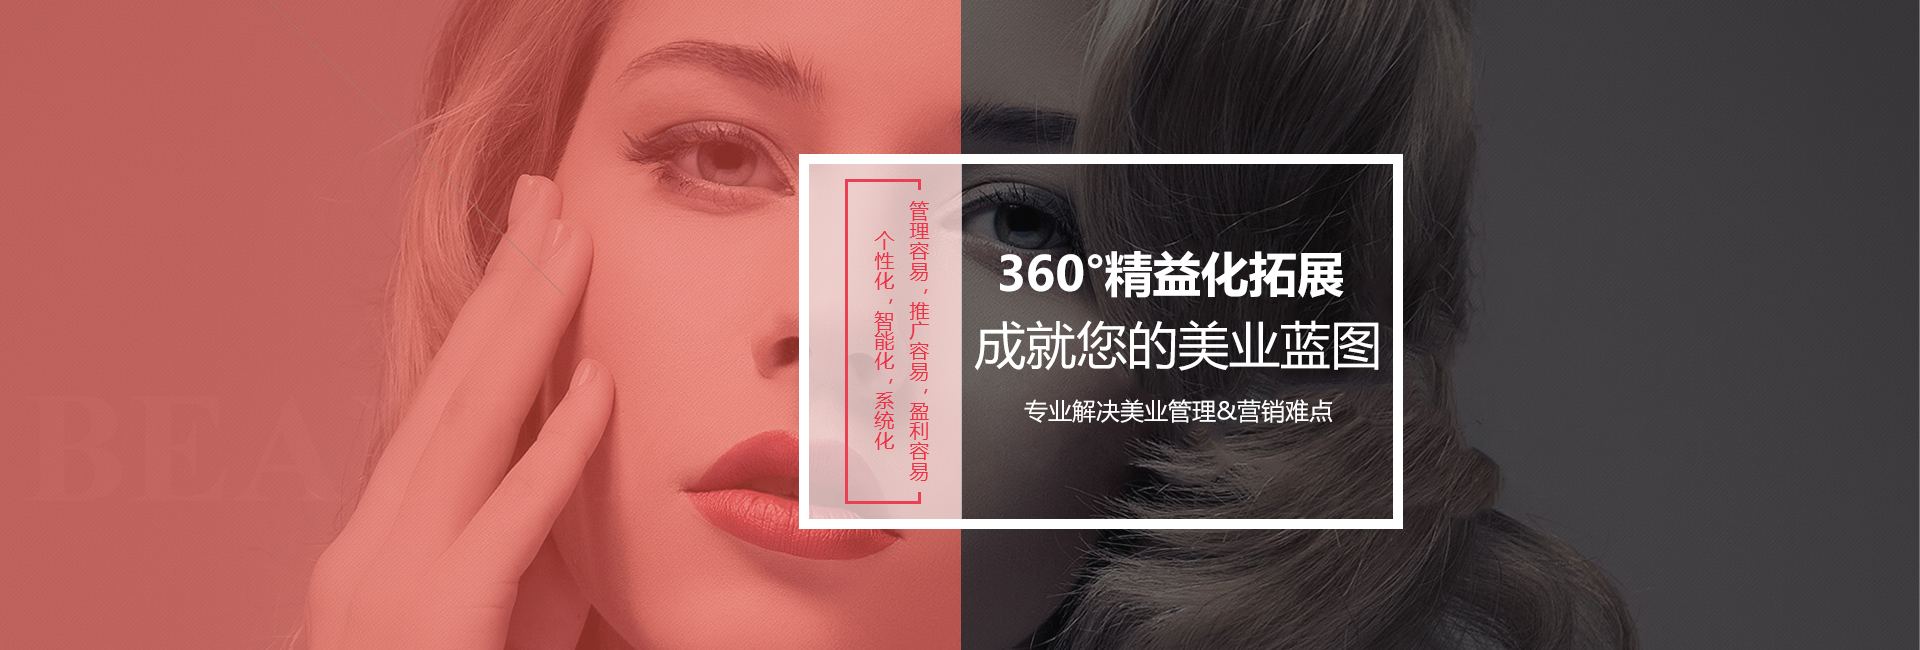
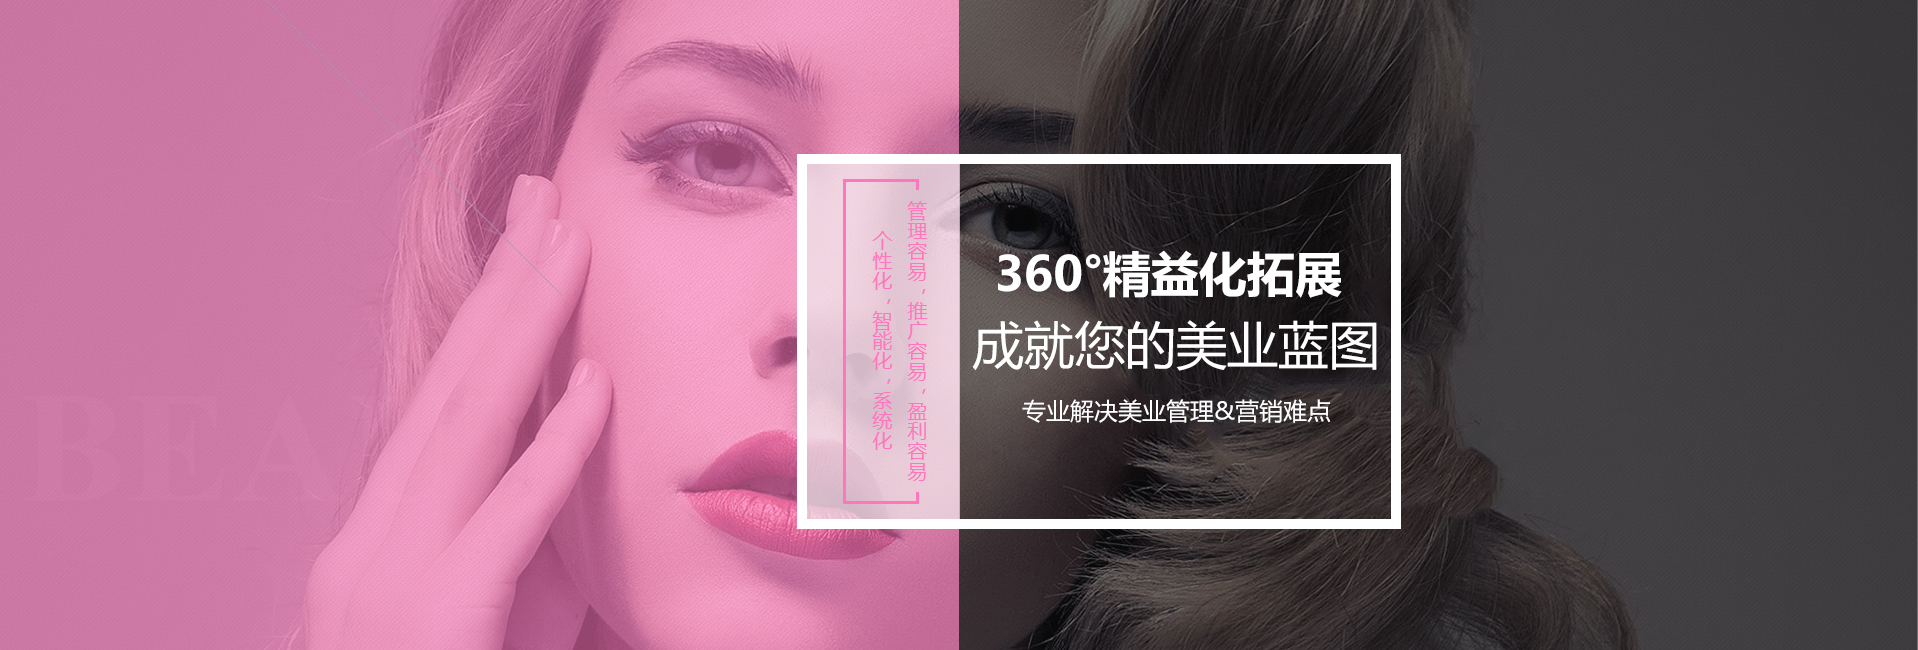
dzw 7/11/18

diff --git a/美容行业独立站/css/index.less b/美容行业独立站/css/index.less
@@ -101,6 +101,7 @@ body{
       float: left;
       .wh(299px, 250px);
       -webkit-transition: all .5s linear;
+      -o-transition: all .5s linear;
       transition: all .5s linear;
       div{
         margin: auto;
@@ -187,8 +188,8 @@ body{
       }
     }
     li:hover{
-      -webkit-box-shadow: 0 0 10px #ea475b;
-              box-shadow: 0 0 10px #ea475b;
+      -webkit-box-shadow: 0 0 10px #eb6575;
+              box-shadow: 0 0 10px #eb6575;
     }
   }
 }
@@ -197,7 +198,7 @@ body{
 */
 .develop{
   .wh(100%, 740px);
-  background-color: #e94f40;
+  background-color: #f97acc;
   .develop_content{
     margin: auto;
     .wh(1200px, auto);
@@ -322,8 +323,8 @@ body{
       margin-left: 0;
     }
     li.on{
-      color: #e94f40;
-      border-bottom: solid 2px #e94055;
+      color: #ff76bd;
+      border-bottom: solid 2px #ff76bd;
     }
   }
   .operate_list{
@@ -337,6 +338,7 @@ body{
       left: 0;
       .wh(6504px, 610px);
       -webkit-transition: all .5s linear;
+      -o-transition: all .5s linear;
       transition: all .5s linear;
       li{
         float: left;
@@ -395,7 +397,7 @@ body{
     }
     li:hover{
       h2{
-        color: #e94f40;
+        color: #ff76bd;
       }
     }
   }
@@ -405,7 +407,7 @@ body{
 */
 .flow{
   .wh(100%, 670px);
-  background-color: #e94f40;
+  background-color: #ff76bd;
   .flow_content{
     margin: auto;
     padding-top: 65px;
@@ -503,7 +505,7 @@ body{
     }
     li:hover{
       h2{
-        color: #e94f40;
+        color: #ff76bd;
       }
     }
   }
@@ -537,14 +539,14 @@ body{
         float: left;
         margin-bottom: 18px;
         .whh(220px, 24px);
-        .font(20px, #e94f40);
+        .font(20px, #ff76bd);
         font-weight: bold;
       }
       p{
         float: left;
         .wh(220px, 57px);
         line-height: 19px;
-        .font(14px, #e94f40);
+        .font(14px, #ff76bd);
         i{
           display: inline-block;
           width: 28px;
@@ -603,12 +605,6 @@ body{
         margin-right: 8px;
         .wh(47px, 47px);
         background: url(../img/index/elves-2.png) no-repeat;
-        -webkit-transition: all .5s linear;
-        transition: all .5s linear;
-      }
-      i:hover{
-        -webkit-transform: scale(2);
-                transform: scale(2);
       }
       h2{
         float: left;
@@ -632,22 +628,22 @@ body{
     }
     li:nth-child(1){
       i{
-        background-position: -3px -282px;
+        background-position: -3px -284px;
       }
     }
     li:nth-child(2){
       i{
-        background-position: -77px -282px;
+        background-position: -77px -284px;
       }
     }
     li:nth-child(3){
       i{
-        background-position: -153px -282px;
+        background-position: -153px -284px;
       }
     }
     li:nth-child(4){
       i{
-        background-position: -227px -282px;
+        background-position: -227px -284px;
       }
     }
   }

diff --git a/美容行业独立站/css/index.css b/美容行业独立站/css/index.css
@@ -115,6 +115,7 @@ body {
   width: 299px;
   height: 250px;
   -webkit-transition: all .5s linear;
+  -o-transition: all .5s linear;
   transition: all .5s linear;
 }
 .products ul li div {
@@ -209,8 +210,8 @@ body {
   height: 20px;
 }
 .products ul li:hover {
-  -webkit-box-shadow: 0 0 10px #ea475b;
-  box-shadow: 0 0 10px #ea475b;
+  -webkit-box-shadow: 0 0 10px #eb6575;
+  box-shadow: 0 0 10px #eb6575;
 }
 /*
 * 是什么阻碍您的企业发展？
@@ -218,7 +219,7 @@ body {
 .develop {
   width: 100%;
   height: 740px;
-  background-color: #e94f40;
+  background-color: #f97acc;
 }
 .develop .develop_content {
   margin: auto;
@@ -368,8 +369,8 @@ body {
   margin-left: 0;
 }
 .operate .operate_choice li.on {
-  color: #e94f40;
-  border-bottom: solid 2px #e94055;
+  color: #ff76bd;
+  border-bottom: solid 2px #ff76bd;
 }
 .operate .operate_list {
   position: relative;
@@ -385,6 +386,7 @@ body {
   width: 6504px;
   height: 610px;
   -webkit-transition: all .5s linear;
+  -o-transition: all .5s linear;
   transition: all .5s linear;
 }
 .operate .operate_list ul li {
@@ -457,7 +459,7 @@ body {
   margin-left: 0;
 }
 .industry .industry_box li:hover h2 {
-  color: #e94f40;
+  color: #ff76bd;
 }
 /*
 * 服务流程
@@ -465,7 +467,7 @@ body {
 .flow {
   width: 100%;
   height: 670px;
-  background-color: #e94f40;
+  background-color: #ff76bd;
 }
 .flow .flow_content {
   margin: auto;
@@ -580,7 +582,7 @@ body {
   background-position: -140px -140px;
 }
 .standard .standard_list li:hover h2 {
-  color: #e94f40;
+  color: #ff76bd;
 }
 /*
 * 灰色板块
@@ -622,7 +624,7 @@ body {
   height: 24px;
   line-height: 24px;
   font-size: 20px;
-  color: #e94f40;
+  color: #ff76bd;
   font-weight: bold;
 }
 .gray .gray_content li p {
@@ -631,7 +633,7 @@ body {
   height: 57px;
   line-height: 19px;
   font-size: 14px;
-  color: #e94f40;
+  color: #ff76bd;
 }
 .gray .gray_content li p i {
   display: inline-block;
@@ -684,12 +686,6 @@ body {
   width: 47px;
   height: 47px;
   background: url(../img/index/elves-2.png) no-repeat;
-  -webkit-transition: all .5s linear;
-  transition: all .5s linear;
-}
-.blend .blend_list li i:hover {
-  -webkit-transform: scale(2);
-  transform: scale(2);
 }
 .blend .blend_list li h2 {
   float: left;
@@ -719,14 +715,14 @@ body {
   color: #666666;
 }
 .blend .blend_list li:nth-child(1) i {
-  background-position: -3px -282px;
+  background-position: -3px -284px;
 }
 .blend .blend_list li:nth-child(2) i {
-  background-position: -77px -282px;
+  background-position: -77px -284px;
 }
 .blend .blend_list li:nth-child(3) i {
-  background-position: -153px -282px;
+  background-position: -153px -284px;
 }
 .blend .blend_list li:nth-child(4) i {
-  background-position: -227px -282px;
+  background-position: -227px -284px;
 }
